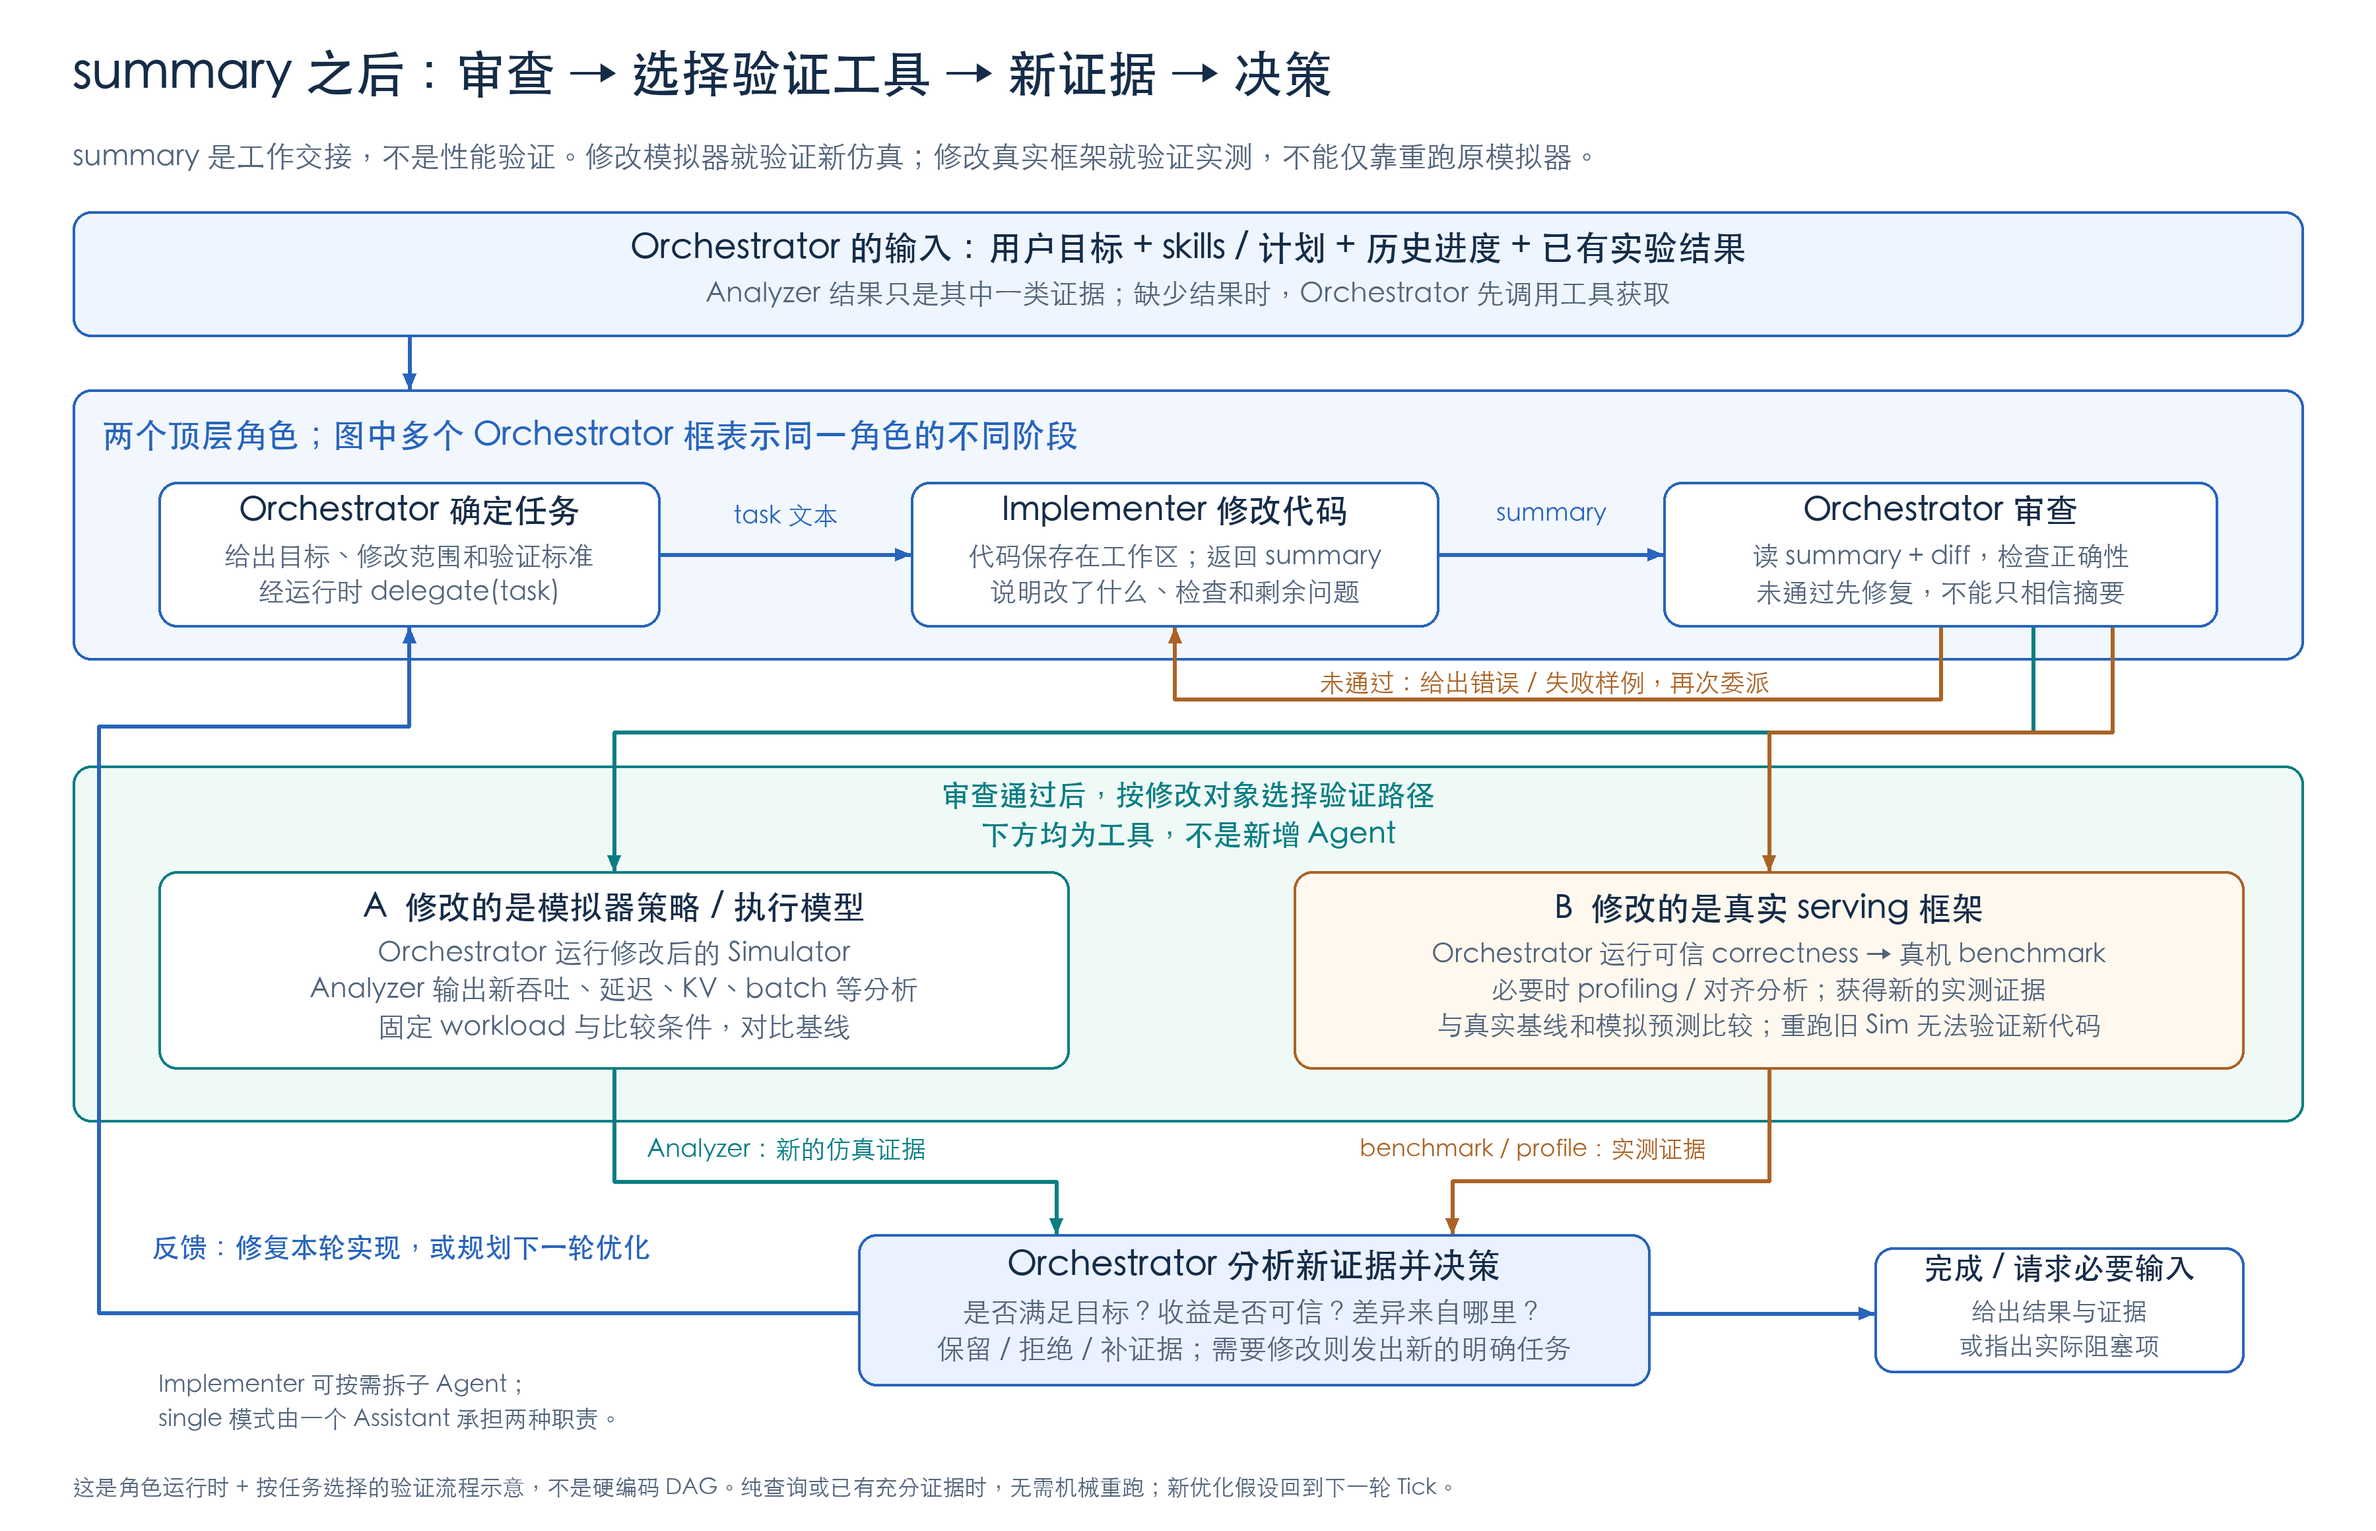
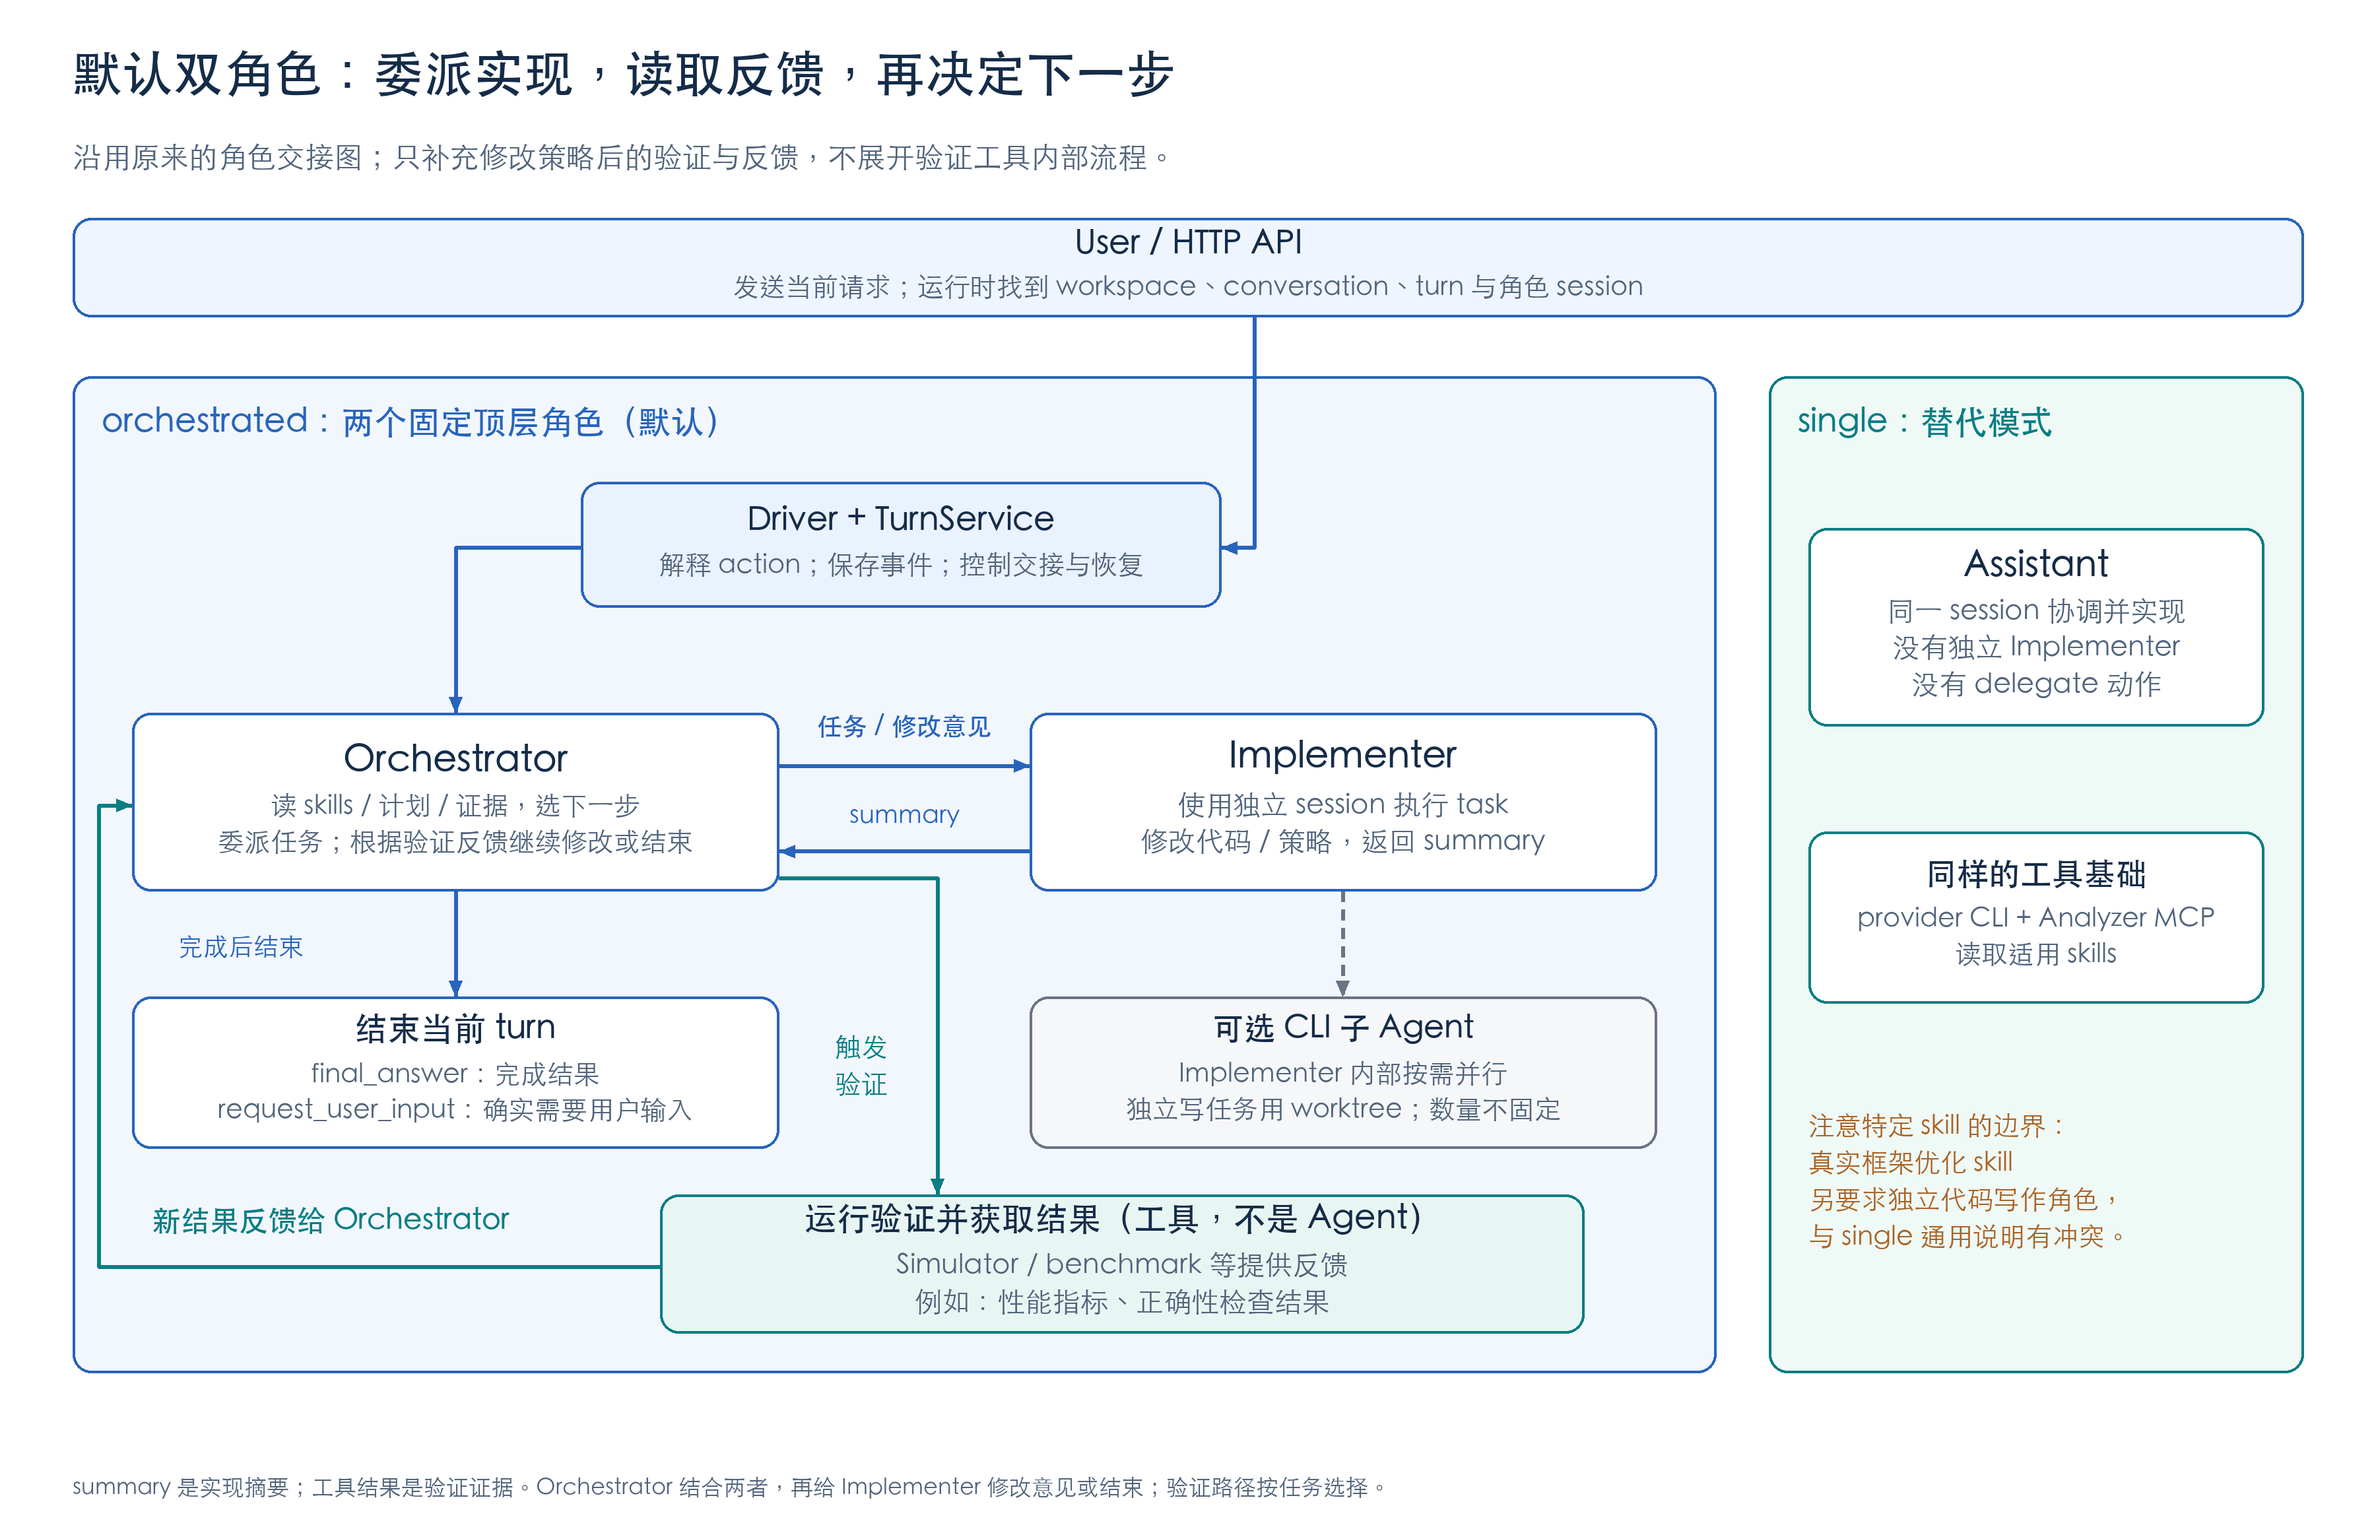
Simplify Agent validation feedback diagram

diff --git a/docs/src/pages/changelog.md b/docs/src/pages/changelog.md
@@ -12,7 +12,7 @@ This project follows [Keep a Changelog](https://keepachangelog.com/en/1.0.0/) co
 
 - Editable [ServingStudio architecture diagrams](https://github.com/Fay0code/LLMServingSim/blob/main/presentations/servingstudio-architecture-six-pages.drawio)
   in Chinese, covering Agent roles, feedback workflows, skills, evaluation and
-  memory, with explicit simulation-versus-real-system validation paths and a PNG
+  memory, with a compact strategy-validation feedback loop and a PNG
   workflow preview. These document an external project; no simulator integration is added.
 - Downloadable [FFN pruning proposal slides](https://github.com/Fay0code/LLMServingSim/blob/main/presentations/ffn-pruning-patent-proposal.pptx)
   in Chinese, describing a parameter-count lower bound and profiling feedback.

diff --git a/CHANGELOG.md b/CHANGELOG.md
@@ -9,7 +9,7 @@ This project follows [Keep a Changelog](https://keepachangelog.com/en/1.0.0/) co
 
 - Editable [ServingStudio architecture diagrams](https://github.com/Fay0code/LLMServingSim/blob/main/presentations/servingstudio-architecture-six-pages.drawio)
   in Chinese, covering Agent roles, feedback workflows, skills, evaluation and
-  memory, with explicit simulation-versus-real-system validation paths and a PNG
+  memory, with a compact strategy-validation feedback loop and a PNG
   workflow preview. These document an external project; no simulator integration is added.
 - Downloadable [FFN pruning proposal slides](https://github.com/Fay0code/LLMServingSim/blob/main/presentations/ffn-pruning-patent-proposal.pptx)
   in Chinese, describing a parameter-count lower bound and profiling feedback.

diff --git a/presentations/README.md b/presentations/README.md
@@ -17,8 +17,8 @@ Open the file in diagrams.net or draw.io; the page tabs contain the project
 overview, Agent runtime, role contracts, optimization workflow, skills and tools,
 and evaluation and memory. The revised overview identifies optional subagents
 and persistent state, and the workflow shows implementation-review feedback. Page two
-distinguishes rerunning a modified simulator from benchmarking a modified real
-framework, then routes new evidence back to the orchestrator.
+keeps the original role layout and adds a compact validation-feedback loop.
+Simulator or benchmark results inform the orchestrator's next implementation task.
 
 ![Agent handoff and validation workflow](servingstudio-agent-validation-flow.png)
 
